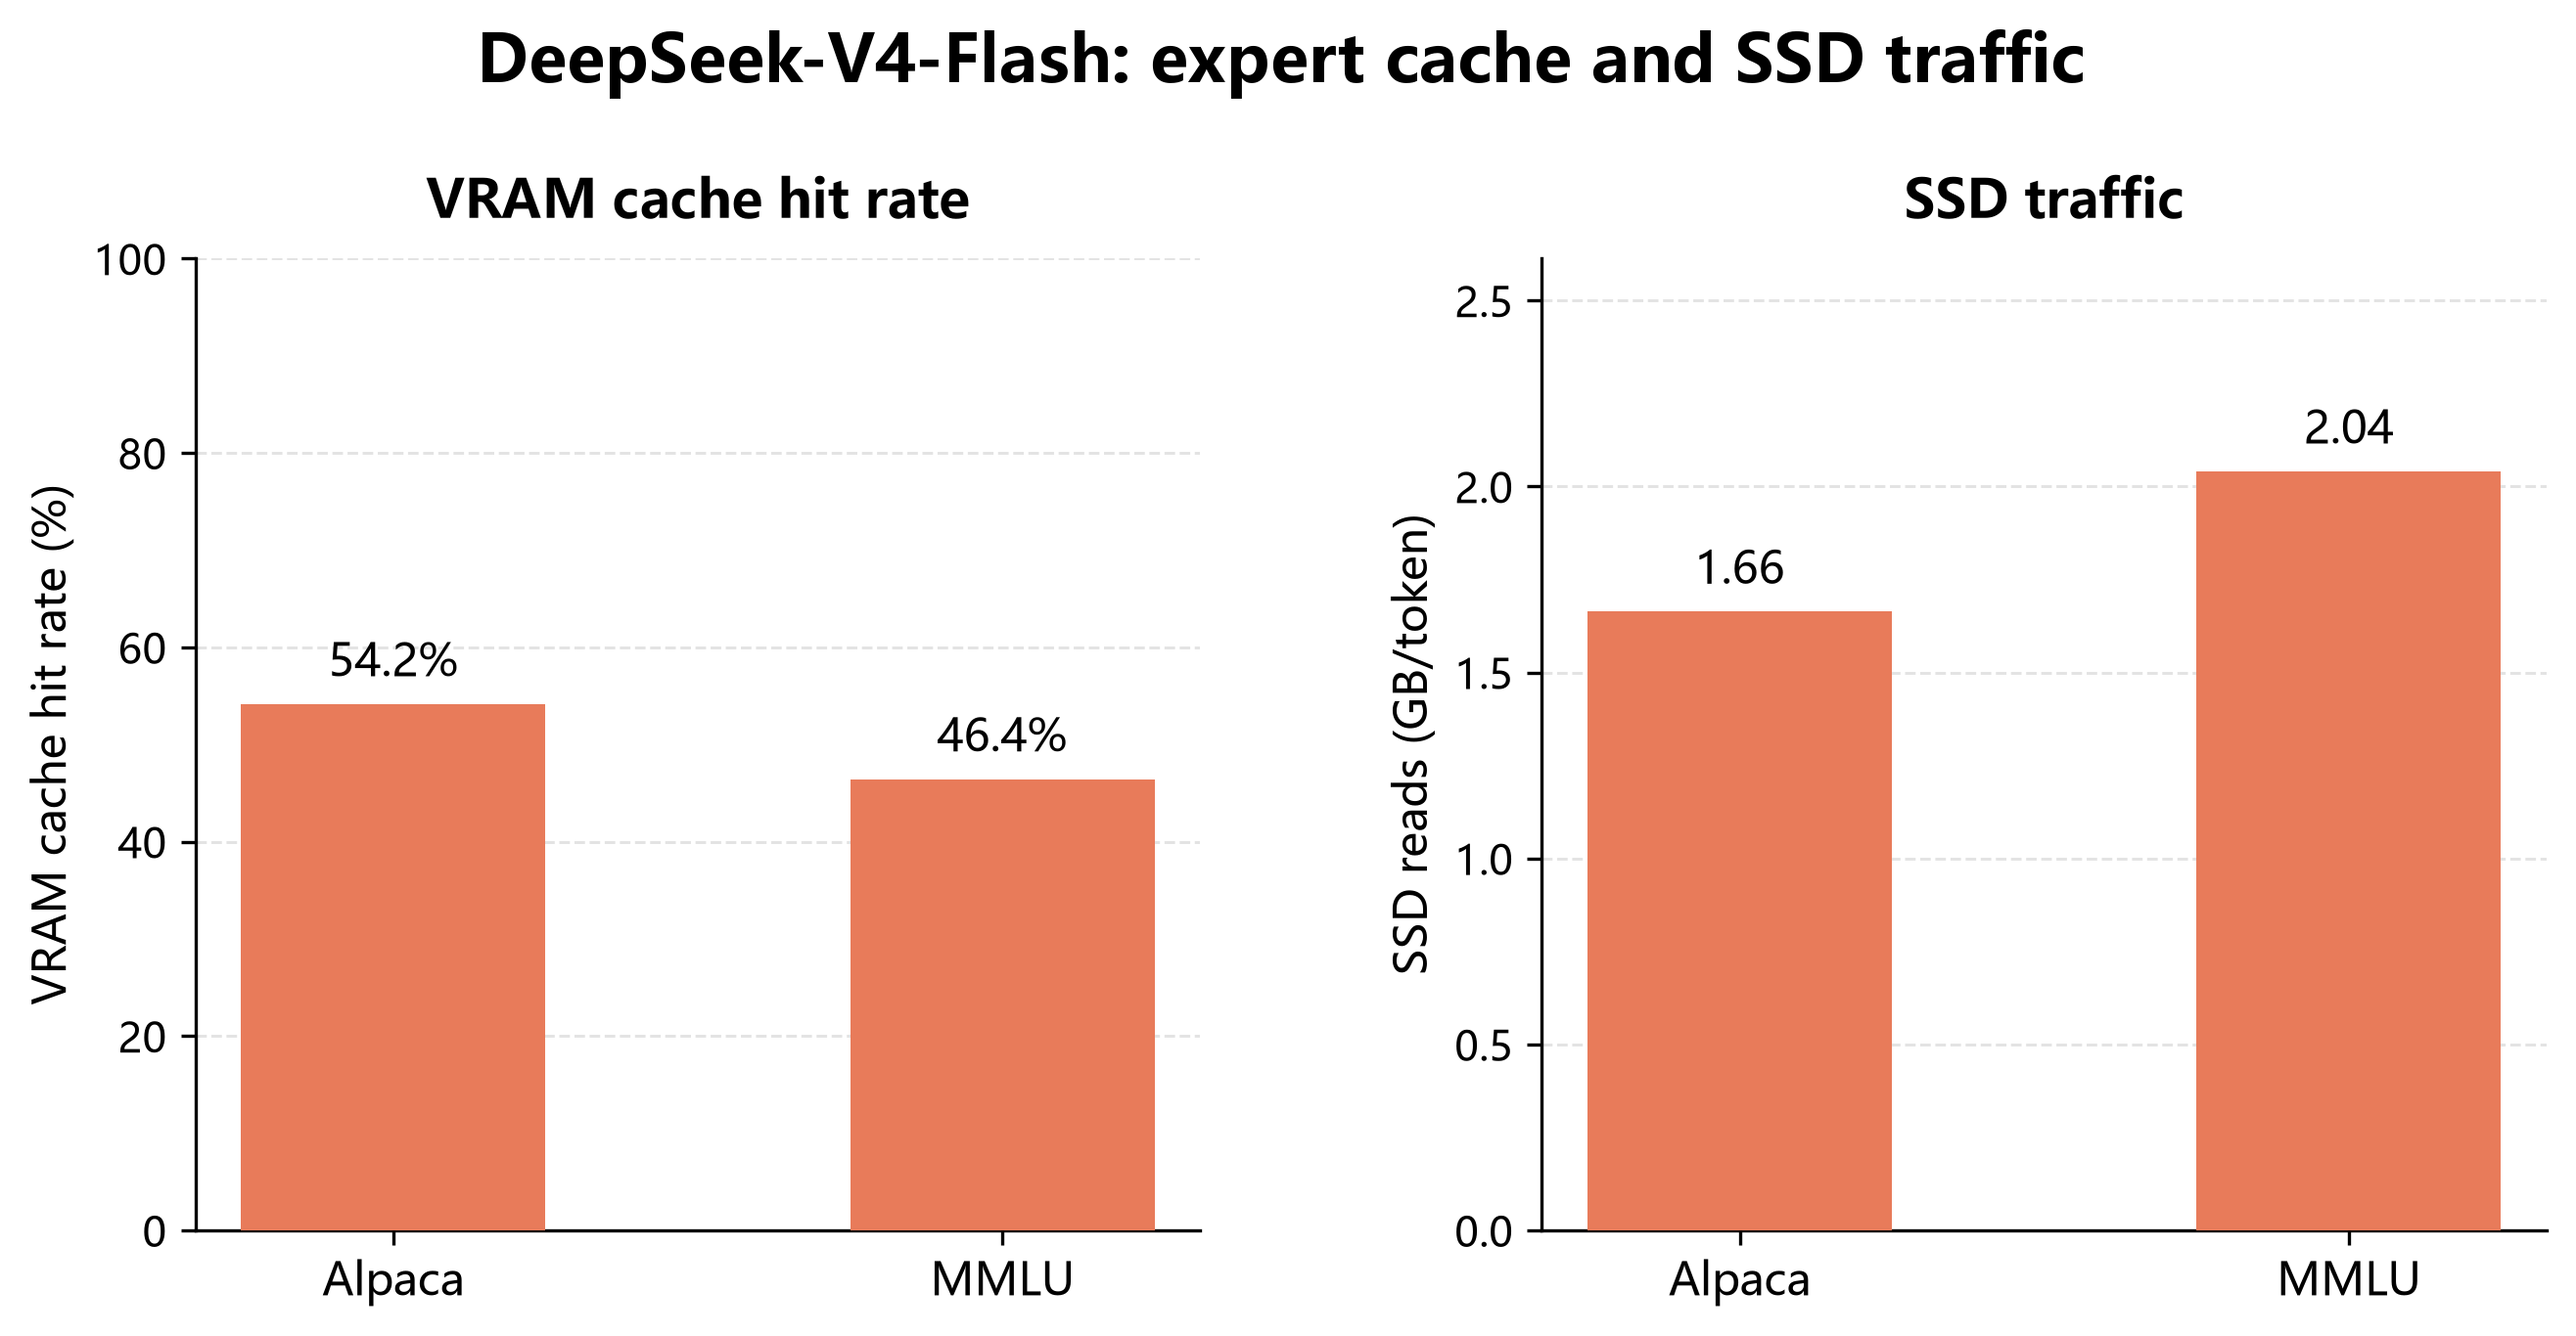
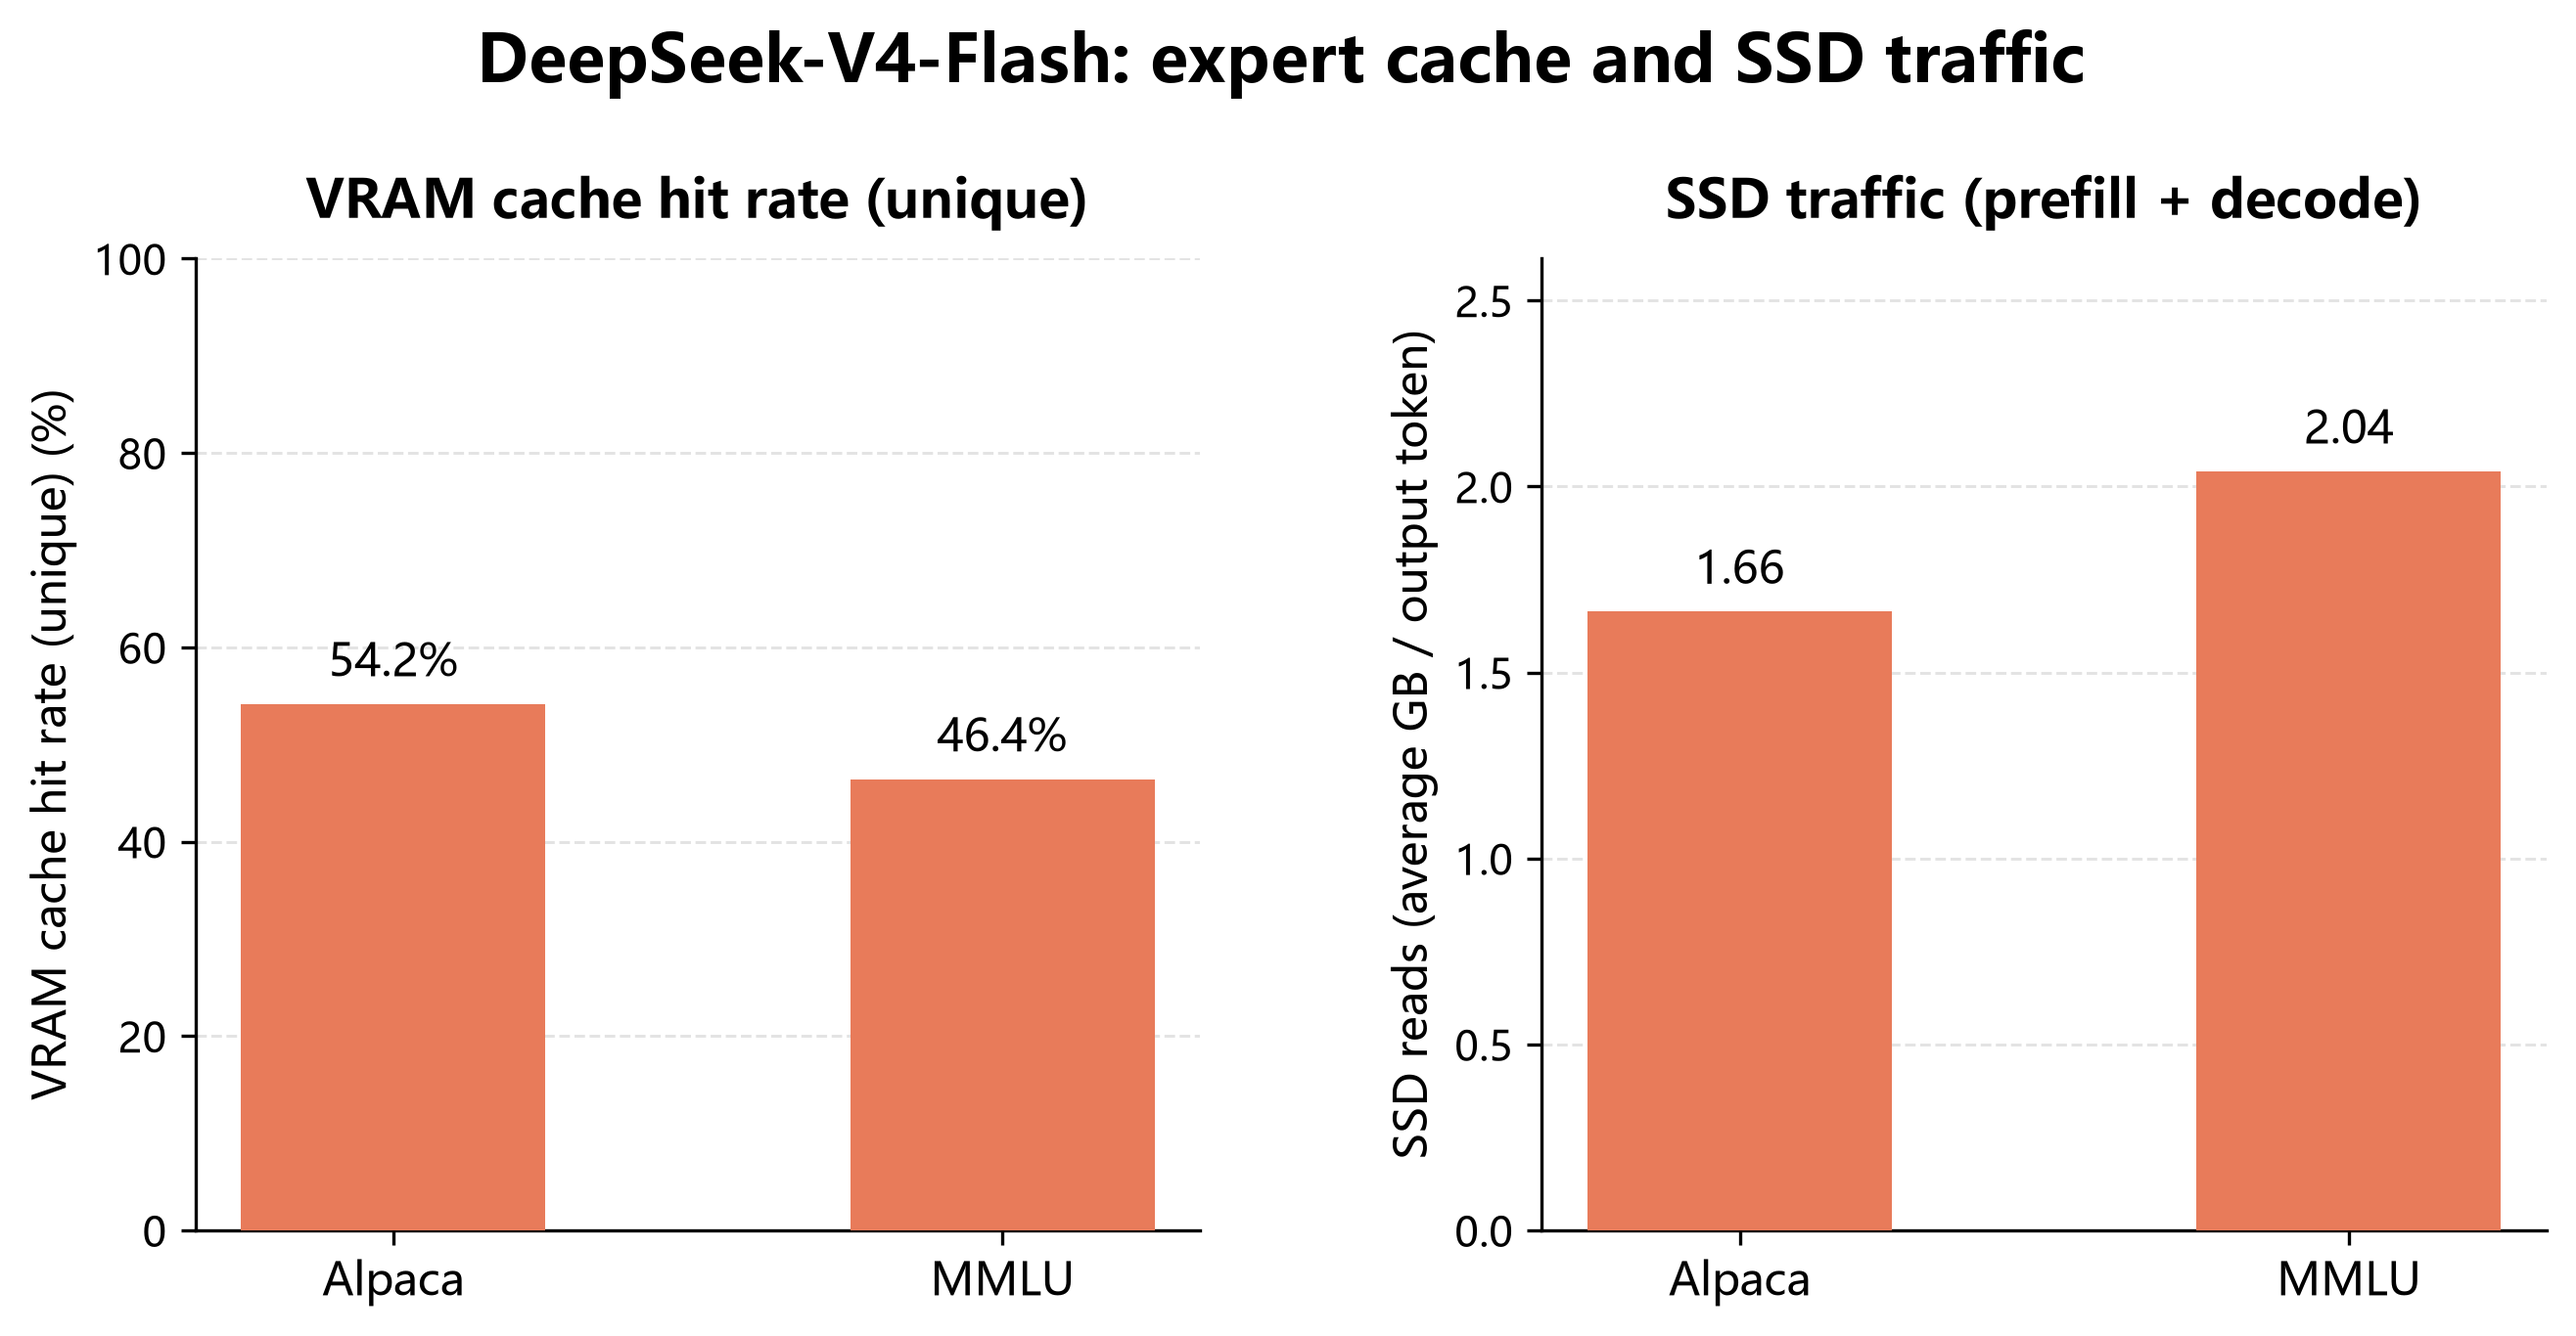
Clarify cache metric labels and chart text

diff --git a/blog/2026-08-29-sglang-ssd-expert-pack.md b/blog/2026-08-29-sglang-ssd-expert-pack.md
@@ -263,7 +263,7 @@ now matched for prompt set, stop behavior, and output length. The chart reports
 mean prefill and decode token rates for each dataset.
 
 <p align="center">
-  <img src="/images/blog/sglang-ssd-expert-pack/kimi_k3_sglang_vs_llama_compare.png?v=20260904" alt="Kimi-K3 SGLang versus llama.cpp prefill and decode token rates for a matched 200-token Alpaca and MMLU rerun" width="100%">
+  <img src="/images/blog/sglang-ssd-expert-pack/kimi_k3_sglang_vs_llama_compare.png?v=20260904" alt="Kimi-K3 SGLang versus llama.cpp prefill and decode token rates for Alpaca and MMLU" width="100%">
 </p>
 
 Relative to llama.cpp, SGLang improves prefill by 6.96x on Alpaca and 5.80x on
@@ -272,20 +272,20 @@ aggregates use the ten retained request records described in Section 9.
 
 ### Expert-cache hit rate and SSD traffic
 
-Token rate should be read together with cache telemetry. The following Python-generated bar charts report VRAM cache hit rate and decimal gigabytes read from the Expert Pack per generated token. A cache hit avoids the SSD read and H2D transfer for that expert. `pack_read_bytes` includes both prefill and decode traffic; GB/token is normalized by generated completion tokens and is not decode-only traffic.
+Token rate should be read together with cache telemetry. The following Python-generated bar charts report the unique-key VRAM cache hit rate and mean SSD traffic per generated token. `cache_hits` and `cache_misses` count unique `(layer, expert)` keys after `acquire()` de-duplicates keys within each update; they are not per-token router-edge accesses. A cache hit avoids the SSD read and H2D transfer for that expert. The SSD traffic metric is the unweighted per-request mean of total `pack_read_bytes` across prefill and decode, normalized by generated completion tokens, and is therefore not decode-only traffic.
 Both figures show SGLang-only telemetry, so the single series is labeled by the surrounding text rather than a legend.
 
 <p align="center">
-  <img src="/images/blog/sglang-ssd-expert-pack/deepseek_v4_flash_expert_cache_metrics.png" alt="DeepSeek-V4-Flash SGLang VRAM cache hit rate and SSD reads per generated token" width="100%">
+  <img src="/images/blog/sglang-ssd-expert-pack/deepseek_v4_flash_expert_cache_metrics.png" alt="DeepSeek-V4-Flash SGLang unique VRAM cache hit rate and mean SSD traffic per generated token" width="100%">
 </p>
 
-DeepSeek uses the complete ten-request run: five Alpaca and five MMLU requests, each with a 200-token completion. Its hit rate is 54.2% for Alpaca and 46.4% for MMLU, with 1.66 and 2.04 GB read per generated token.
+DeepSeek uses the complete ten-request run: five Alpaca and five MMLU requests, each with a 200-token completion. Its unique-key VRAM cache hit rate is 54.2% for Alpaca and 46.4% for MMLU. The mean SSD traffic, combining prefill and decode, is 1.66 and 2.04 decimal GB per generated token, respectively.
 
 <p align="center">
-  <img src="/images/blog/sglang-ssd-expert-pack/kimi_k3_expert_cache_metrics.png" alt="Kimi-K3 SGLang VRAM cache hit rate and SSD reads per generated token" width="100%">
+  <img src="/images/blog/sglang-ssd-expert-pack/kimi_k3_expert_cache_metrics.png" alt="Kimi-K3 SGLang unique VRAM cache hit rate and mean SSD traffic per generated token" width="100%">
 </p>
 
-The Kimi figure uses all ten completed requests: five Alpaca and five MMLU, each with a 200-token completion. The unweighted per-request means are 17.0% and 22.7% VRAM cache hit rate, with 22.10 and 27.63 decimal GB read per generated token, respectively. The difference from DeepSeek is expected: Kimi's configuration reserves 5 GiB for the GPU expert cache, while the DeepSeek run reserves about 21 GiB, and the two adapters have different expert payload sizes and routing behavior.
+The Kimi figure uses all ten completed requests: five Alpaca and five MMLU, each with a 200-token completion. The unweighted per-request unique-key VRAM cache hit rates are 17.0% and 22.7%, respectively. The corresponding mean SSD traffic, combining prefill and decode, is 22.10 and 27.63 decimal GB per generated token. The difference from DeepSeek is expected: Kimi's configuration reserves 5 GiB for the GPU expert cache, while the DeepSeek run reserves about 21 GiB, and the two adapters have different expert payload sizes and routing behavior.
 
 <!-- Retired interim three-request values are kept below only as review history. -->
 <!--
